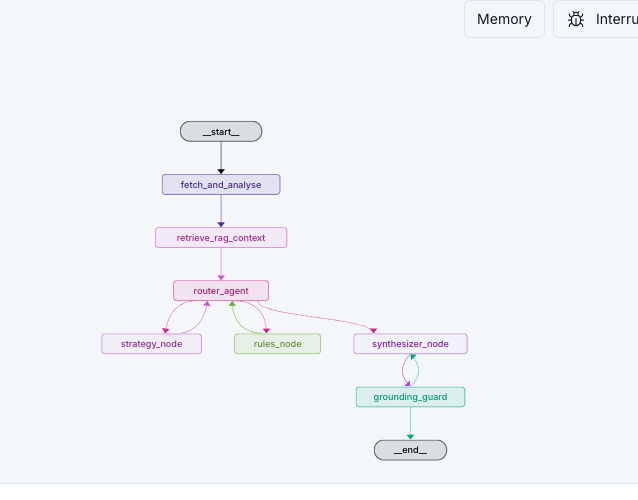
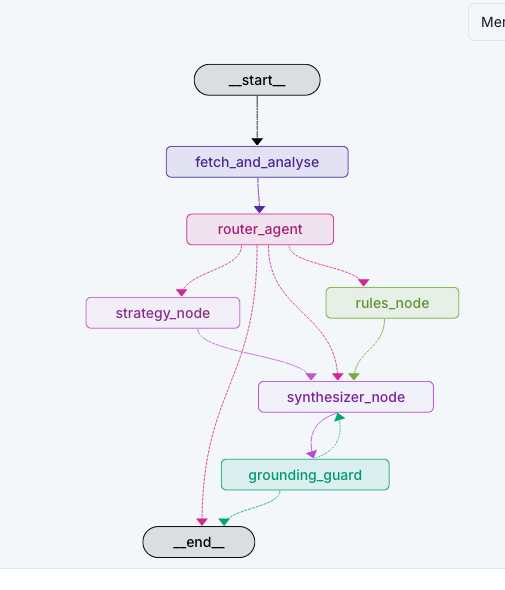
docs: finalise the phase 10 design across docs/, README, and final_docs
The router section of ARCHITECTURE.md had been left self-contradictory by the
phase 10 edits — one sentence said specialists loop back to the router, the
next said they edge straight to the synthesizer. Rewritten as a single
description of the current design:

- One-shot dispatch table (per-turn targets and LLM cost), replacing the
  phase 9 five-branch fast-path table.
- A state diagram of the current graph, including the parallel "both" fan-out
  and the small-talk exit to END.
- Notes on why parallel writes need reducers (rag_context) and why persistent
  findings are only safe under one-shot dispatch.
- The superseded phase 9 design is now pointed at, not restated.

Also corrected a leftover "net effect" paragraph that repeated the claim both
specialists run on an initial /review. They never did — that was the defect
phase 10 fixed — so the claim was wrong when written, not merely outdated.

diagrams/router-fast-pathing.md documented a design that no longer exists;
renamed to diagrams/router-dispatch.md and rewritten for one-shot dispatch,
with the phase 9 history linked rather than inlined. PLAN.md's link repointed.
PLAN.md is otherwise a historical build spec and left as-is.

request-lifecycle.md and README: /chat is still 1 router LLM call, but the
wording described a loop-back hop that no longer happens; both now mention the
0-call small-talk path and parallel dispatch.

stategraph.png: refreshed LangGraph Studio render. It independently confirms
[…]

diff --git a/docs/ARCHITECTURE.md b/docs/ARCHITECTURE.md
@@ -100,111 +100,97 @@ flowchart TD
 *(Copy in [`diagrams/agent-workflow.md`](diagrams/agent-workflow.md).)*
 
 **Multi-agent topology.** The single `narrator_agent` was replaced by a **router → specialist →
-synthesizer** team: `router_agent_node` classifies intent and delegates, `strategy_node` and
+synthesizer** team: `router_agent_node` classifies intent and dispatches, `strategy_node` and
 `rules_node` each own one domain and one corpus bucket, and `synthesizer_node` fuses their findings
-into the one answer the user reads. Specialists loop back to the router so it can sequence them; the
-`should_delegate` conditional edge maps the router's `dispatch_targets` onto the next node — or onto *both* specialist nodes at once, by returning a list, which is how LangGraph fans out to parallel branches. The router is entered exactly once per invocation; specialists edge straight to `synthesizer_node` rather than looping back.
+into the one answer the user reads. The `should_delegate` conditional edge maps the router's
+`dispatch_targets` onto the next node — or onto *both* specialist nodes at once, by returning a
+list, which is how LangGraph fans out to parallel branches. Specialists edge straight to
+`synthesizer_node`; nothing loops back to the router.
 
-**Router fast-pathing.** `router_agent_node` decides *deterministically* wherever the outcome is
-already implied by state, and only calls the LLM for genuine intent classification:
+**One-shot dispatch.** `router_agent_node` is entered **exactly once per invocation** and decides
+everything for that turn in a single visit. It reaches for the LLM only when genuine intent
+classification is required:
 
-| Router state | Decision | LLM call |
+| Turn | `dispatch_targets` | LLM call |
 |---|---|---|
-| `strategy_findings` **and** `rules_findings` set | → `synthesizer_node` | none |
-| only `strategy_findings` set | → `rules_node` (sequential chaining) | none |
-| only `rules_findings` set | → `strategy_node` (sequential chaining) | none |
-| no `HumanMessage` in state (initial `/review`) | → `strategy_node` (default) | none |
-| `HumanMessage` present, no findings yet (chat follow-up) | classify intent | **1 call** |
+| Initial `/review` (no messages) | `["strategy"]` | none |
+| Pure small talk ("hi", "thanks") | `["end"]` — canned reply, ends the turn | none |
+| Chat, strategy question | `["strategy"]` | 1 |
+| Chat, rules question | `["rules"]` | 1 |
+| Chat, needs both | `["strategy", "rules"]` — parallel fan-out | 1 |
+| Chat, neither specialist needed | `[]` — straight to synthesis | 1 |
 
-**Before: router always calls the LLM.** Every visit to `router_agent` — the first pass on an
-initial review, or a loop-back after a specialist finishes — used to invoke the classification LLM
-call, even when the next step was already deterministic given current state.
-
-```mermaid
-stateDiagram-v2
-    [*] --> FetchAndAnalyse
-    FetchAndAnalyse --> RetrieveRagContext
-    RetrieveRagContext --> RouterAgent
-
-    state RouterAgent {
-        [*] --> LLMClassify: always calls chat()
-        LLMClassify --> [*]
-    }
-
-    RouterAgent --> StrategyNode: LLM picks "strategy"
-    RouterAgent --> RulesNode: LLM picks "rules"
-    RouterAgent --> SynthesizerNode: both findings already present
-
-    StrategyNode --> RouterAgent: loop back (LLM call again)
-    RulesNode --> RouterAgent: loop back (LLM call again)
-
-    SynthesizerNode --> GroundingGuard
-    GroundingGuard --> [*]: approved
-    GroundingGuard --> SynthesizerNode: rejected, retry_count < 3
-
-    note right of RouterAgent
-        Every entry costs 1 LLM call,
-        regardless of whether the next
-        hop is already implied by state
-        (e.g. only one specialist has
-        run so far).
-    end note
-```
-
-**After: router short-circuits on known state.** `router_agent_node` now inspects
-`strategy_findings` / `rules_findings` / whether any `HumanMessage` exists *before* calling the
-LLM. Three of its four branches return deterministically with zero LLM cost; only the "user asked
-something new, no findings yet" branch reaches the `chat()` call.
+Rules deliberately does not run on a plain review: there is no rules question to answer. Small talk
+skips the synthesizer *and* the grounding guard, since a canned reply names no moves and so has
+nothing to legality-check.
 
 ```mermaid
 stateDiagram-v2
     [*] --> FetchAndAnalyse
-    FetchAndAnalyse --> RetrieveRagContext
-    RetrieveRagContext --> RouterAgent
+    FetchAndAnalyse --> RouterAgent
 
     state RouterAgent {
         [*] --> CheckState
-        CheckState --> BothGathered: strategy_findings and rules_findings set
-        CheckState --> OnlyStrategyDone: strategy set, rules unset
-        CheckState --> OnlyRulesDone: rules set, strategy unset
-        CheckState --> NoHumanMessage: no HumanMessage in state
-        CheckState --> NeedsClassification: HumanMessage present, no findings yet
+        CheckState --> NoMessages: initial /review
+        CheckState --> SmallTalk: whole-message greeting/thanks match
+        CheckState --> Classify: a real question
 
-        BothGathered --> [*]: skip (deterministic)
-        OnlyStrategyDone --> [*]: skip, fast-route to rules
-        OnlyRulesDone --> [*]: skip, fast-route to strategy
-        NoHumanMessage --> [*]: skip, default to strategy
-        NeedsClassification --> [*]: calls chat() (only LLM cost)
+        NoMessages --> [*]: dispatch_targets = ["strategy"] (free)
+        SmallTalk --> [*]: canned reply, ends turn (free)
+        Classify --> [*]: calls chat() once (the only LLM cost)
     }
 
-    RouterAgent --> StrategyNode: NoHumanMessage / OnlyRulesDone / classified "strategy"
-    RouterAgent --> RulesNode: OnlyStrategyDone / classified "rules"
-    RouterAgent --> SynthesizerNode: BothGathered
+    RouterAgent --> [*]: small talk — no synthesis, no grounding
+    RouterAgent --> StrategyNode: "strategy", or initial review
+    RouterAgent --> RulesNode: "rules"
+    RouterAgent --> SynthesizerNode: nothing needed
 
-    StrategyNode --> RouterAgent: loop back (usually free)
-    RulesNode --> RouterAgent: loop back (usually free)
+    state Both <<fork>>
+    RouterAgent --> Both: classified "both"
+    Both --> StrategyNode
+    Both --> RulesNode
+
+    StrategyNode --> SynthesizerNode
+    RulesNode --> SynthesizerNode
 
     SynthesizerNode --> GroundingGuard
     GroundingGuard --> [*]: approved
     GroundingGuard --> SynthesizerNode: rejected, retry_count < 3
 
     note right of RouterAgent
-        Only "NeedsClassification"
-        (a genuine user follow-up with
-        no specialist findings gathered
-        yet) costs an LLM call. All other
-        branches are free — the outcome
-        is already implied by state.
+        Entered once per turn. The
+        "both" case fans out to two
+        parallel branches in one
+        superstep; both edge into
+        SynthesizerNode, which runs
+        once after both finish.
     end note
 ```
 
-**Net effect.** On an initial `/review` (no `HumanMessage` yet), both specialists still run for full
-coverage, but the router itself never costs an LLM call — every decision that used to need a
-classification call is now made for free from state. On a `/chat` follow-up, the first router visit
-still needs the LLM for real intent classification, but the loop-back after the first specialist
-finishes is now a free, deterministic hop to the other specialist. Total LLM calls per turn drop by
-one in both flows, with no loss of specialist coverage.
-*(Copy in [`diagrams/router-fast-pathing.md`](diagrams/router-fast-pathing.md).)*
+**Parallel writes need reducers.** Because both specialists can run in the same superstep, every
+state key either of them writes must be `Annotated` with a reducer — otherwise LangGraph raises
+`InvalidUpdateError: can receive only one value per step`. `execution_logs` and `agent_steps`
+already appended; `rag_context` required a `merge_rag_context` reducer. `strategy_findings` and
+`rules_findings` are distinct keys and never collide.
+
+**Findings persist.** `synthesizer_node` no longer clears `strategy_findings` / `rules_findings`,
+so a review's specialist work stays available as background context for later chat turns in the
+same thread. This is safe only because dispatch is one-shot — under the earlier design, which
+inspected those fields to decide the next hop, persisted findings would have mis-routed every
+subsequent turn.
+
+> **Superseded:** phase 9 used a five-branch fast-path table and looped specialists back through
+> the router to sequence them. That design is recorded in
+> [`final_docs/implementation/phase9.md`](../final_docs/implementation/phase9.md); phase 10 replaced
+> it with the one-shot dispatch above. See
+> [`final_docs/implementation/phase10.md`](../final_docs/implementation/phase10.md) for the
+> rationale, including the routing defect that made the specialist layer inert on reviews.
+
+**Net effect.** An initial `/review` costs **0 router LLM calls** — dispatch is implied by state.
+A `/chat` follow-up costs exactly **one** classification call, whether it dispatches to one
+specialist, both, or neither; the "both" case runs the two specialists concurrently rather than
+chaining them. Pure small talk costs **nothing at all** and skips synthesis and grounding entirely.
+*(Copy in [`diagrams/router-dispatch.md`](diagrams/router-dispatch.md).)*
 
 ## 4a. Request lifecycle (end-to-end sequence)
 Traces a click in the browser all the way through the FastAPI route, the LangGraph
@@ -249,9 +235,10 @@ sequenceDiagram
     Client->>UI: setReport(data) -> dashboard re-renders
 ```
 
-**Flow B: `POST /chat` (follow-up question).** Router LLM cost: **1 call** — the first router visit
-does real intent classification; the loop-back after the first specialist is a free, deterministic
-hop to the second one.
+**Flow B: `POST /chat` (follow-up question).** Router LLM cost: **1 call** — the router is entered
+once and classifies intent in that single visit, then dispatches to one specialist, both in
+parallel, or neither. Pure small talk is matched deterministically and costs **0 calls**, skipping
+synthesis and the grounding guard entirely.
 
 ```mermaid
 sequenceDiagram

diff --git a/docs/diagrams/router-dispatch.md b/docs/diagrams/router-dispatch.md
@@ -1,0 +1,87 @@
+# Router dispatch — how the router decides
+
+Referenced from [`ARCHITECTURE.md` §4](../ARCHITECTURE.md#4-agent-workflow-control-flow) and
+[`Deliverables.md` §6.3](../Deliverables.md#63-iterative-improvements--engineering-optimizations).
+
+`router_agent_node` is entered **exactly once per graph invocation**. It decides the whole turn in
+that single visit: run one specialist, run both in parallel, run neither, or answer small talk from
+a template and end the turn. Nothing loops back to the router.
+
+## Decision table
+
+| Turn | `dispatch_targets` | Router LLM call |
+|---|---|---|
+| Initial `/review` (no messages) | `["strategy"]` | none |
+| Pure small talk ("hi", "thanks", "bye") | `["end"]` — canned reply, ends the turn | none |
+| Chat, strategy question | `["strategy"]` | 1 |
+| Chat, rules question | `["rules"]` | 1 |
+| Chat, needs both | `["strategy", "rules"]` — parallel fan-out | 1 |
+| Chat, neither specialist needed | `[]` — straight to synthesis | 1 |
+
+Rules deliberately does not run on a plain review: there is no rules question to answer there.
+
+## Control flow
+
+```mermaid
+stateDiagram-v2
+    [*] --> FetchAndAnalyse
+    FetchAndAnalyse --> RouterAgent
+
+    state RouterAgent {
+        [*] --> CheckState
+        CheckState --> NoMessages: initial /review
+        CheckState --> SmallTalk: whole-message greeting/thanks match
+        CheckState --> Classify: a real question
+
+        NoMessages --> [*]: dispatch_targets = ["strategy"] (free)
+        SmallTalk --> [*]: canned reply, ends turn (free)
+        Classify --> [*]: calls chat() once (the only LLM cost)
+    }
+
+    RouterAgent --> [*]: small talk — no synthesis, no grounding
+    RouterAgent --> StrategyNode: "strategy", or initial review
+    RouterAgent --> RulesNode: "rules"
+    RouterAgent --> SynthesizerNode: nothing needed
+
+    state Both <<fork>>
+    RouterAgent --> Both: classified "both"
+    Both --> StrategyNode
+    Both --> RulesNode
+
+    StrategyNode --> SynthesizerNode
+    RulesNode --> SynthesizerNode
+
+    SynthesizerNode --> GroundingGuard
+    GroundingGuard --> [*]: approved
+    GroundingGuard --> SynthesizerNode: rejected, retry_count < 3
+```
+
+## Why one-shot dispatch
+
+The earlier design let specialists loop back into the router so it could sequence them, which meant
+the router was a repeat visitor within a single turn and needed state to track "what is left to
+run". Deciding everything up front removes that bookkeeping, and makes the "both" case a genuine
+parallel fan-out: both specialists run in one superstep, and because each has a fixed edge to
+`synthesizer_node`, LangGraph runs the synthesizer once after both finish — standard fan-in, no
+custom join code.
+
+Because both specialists can now write state in the same superstep, every key either of them writes
+must be `Annotated` with a reducer, or LangGraph raises `InvalidUpdateError: can receive only one
+value per step`. That is why `rag_context` has a `merge_rag_context` reducer.
+
+## Small talk costs nothing
+
+A message that is *purely* a greeting, thanks, or farewell is matched against a deterministic
+allowlist and answered from a template: no LLM call, no specialist, no synthesizer, and no grounding
+guard — a canned reply names no moves, so there is nothing to legality-check.
+
+Matching is **whole-message**, not prefix. `"Hi, why was my move a blunder?"` merely opens politely
+and still reaches normal classification; silently swallowing such questions would break coaching,
+and a regression test covers it.
+
+## History
+
+Phase 9 introduced a five-branch fast-path table and the specialist loop-back, documented in
+[`final_docs/implementation/phase9.md`](../../final_docs/implementation/phase9.md). Phase 10
+replaced it after tracing a defect that made the specialist layer inert on `/review` entirely — see
+[`final_docs/implementation/phase10.md`](../../final_docs/implementation/phase10.md).

diff --git a/README.md b/README.md
@@ -84,8 +84,11 @@ specialists each answer from their own corpus bucket; a **synthesizer** fuses th
 single answer the user reads; the **grounding guard** re-checks every move named and loops back with a
 critique if anything is unverified. The router is deliberately cheap — it decides deterministically
 wherever the state already implies the next hop, and calls the LLM only for genuine intent
-classification: **0 LLM calls on `/review`, 1 on `/chat`** (before/after diagrams and the full
-end-to-end request sequence: [docs/ARCHITECTURE.md](./docs/ARCHITECTURE.md) §4/§4a).
+classification: **0 LLM calls on `/review`, 1 on `/chat`, and 0 for pure small talk** ("hi",
+"thanks" — answered from a template, skipping synthesis and the grounding guard). The router is
+entered once per turn and dispatches in one shot; a question that genuinely needs both specialists
+runs them **in parallel** rather than chaining them (diagrams and the full end-to-end request
+sequence: [docs/ARCHITECTURE.md](./docs/ARCHITECTURE.md) §4/§4a).
 
 > **Memory caveat.** "Memory" today means conversation-scoped state (a LangGraph checkpointer) that
 > lets a review and its follow-up chat share context within one session — it does not survive a

diff --git a/docs/diagrams/request-lifecycle.md b/docs/diagrams/request-lifecycle.md
@@ -48,8 +48,9 @@ sequenceDiagram
 
 ## Flow B: `POST /chat` (follow-up question)
 
-Router LLM cost: **1 call** — the first router visit does real intent classification; the
-loop-back after the first specialist is a free, deterministic hop to the second one.
+Router LLM cost: **1 call** — the router is entered once and classifies intent in that single
+visit, then dispatches to one specialist, both in parallel, or neither. Pure small talk is matched
+deterministically and costs **0 calls**, skipping synthesis and the grounding guard entirely.
 
 ```mermaid
 sequenceDiagram

diff --git a/docs/PLAN.md b/docs/PLAN.md
@@ -318,7 +318,7 @@ corpus-eating `data/` ignore rule to `/data/chroma/`, drop the hardcoded develop
 `/carlsen-games`, and keep the PGN dropdown rendered-but-disabled when no games load.
 **Acceptance:** ✓ `tests/test_phase9.py` green (bucketed retrieval per specialist + `should_delegate`)
 · ✓ router costs 0 LLM calls on `/review` and 1 on a `/chat` turn (see `ARCHITECTURE.md` §4 and
-`diagrams/router-fast-pathing.md`)
+`diagrams/router-dispatch.md`)
 · ✓ `git ls-files backend/data` lists both corpus buckets and `Carlsen.pgn`.
 
 ---
